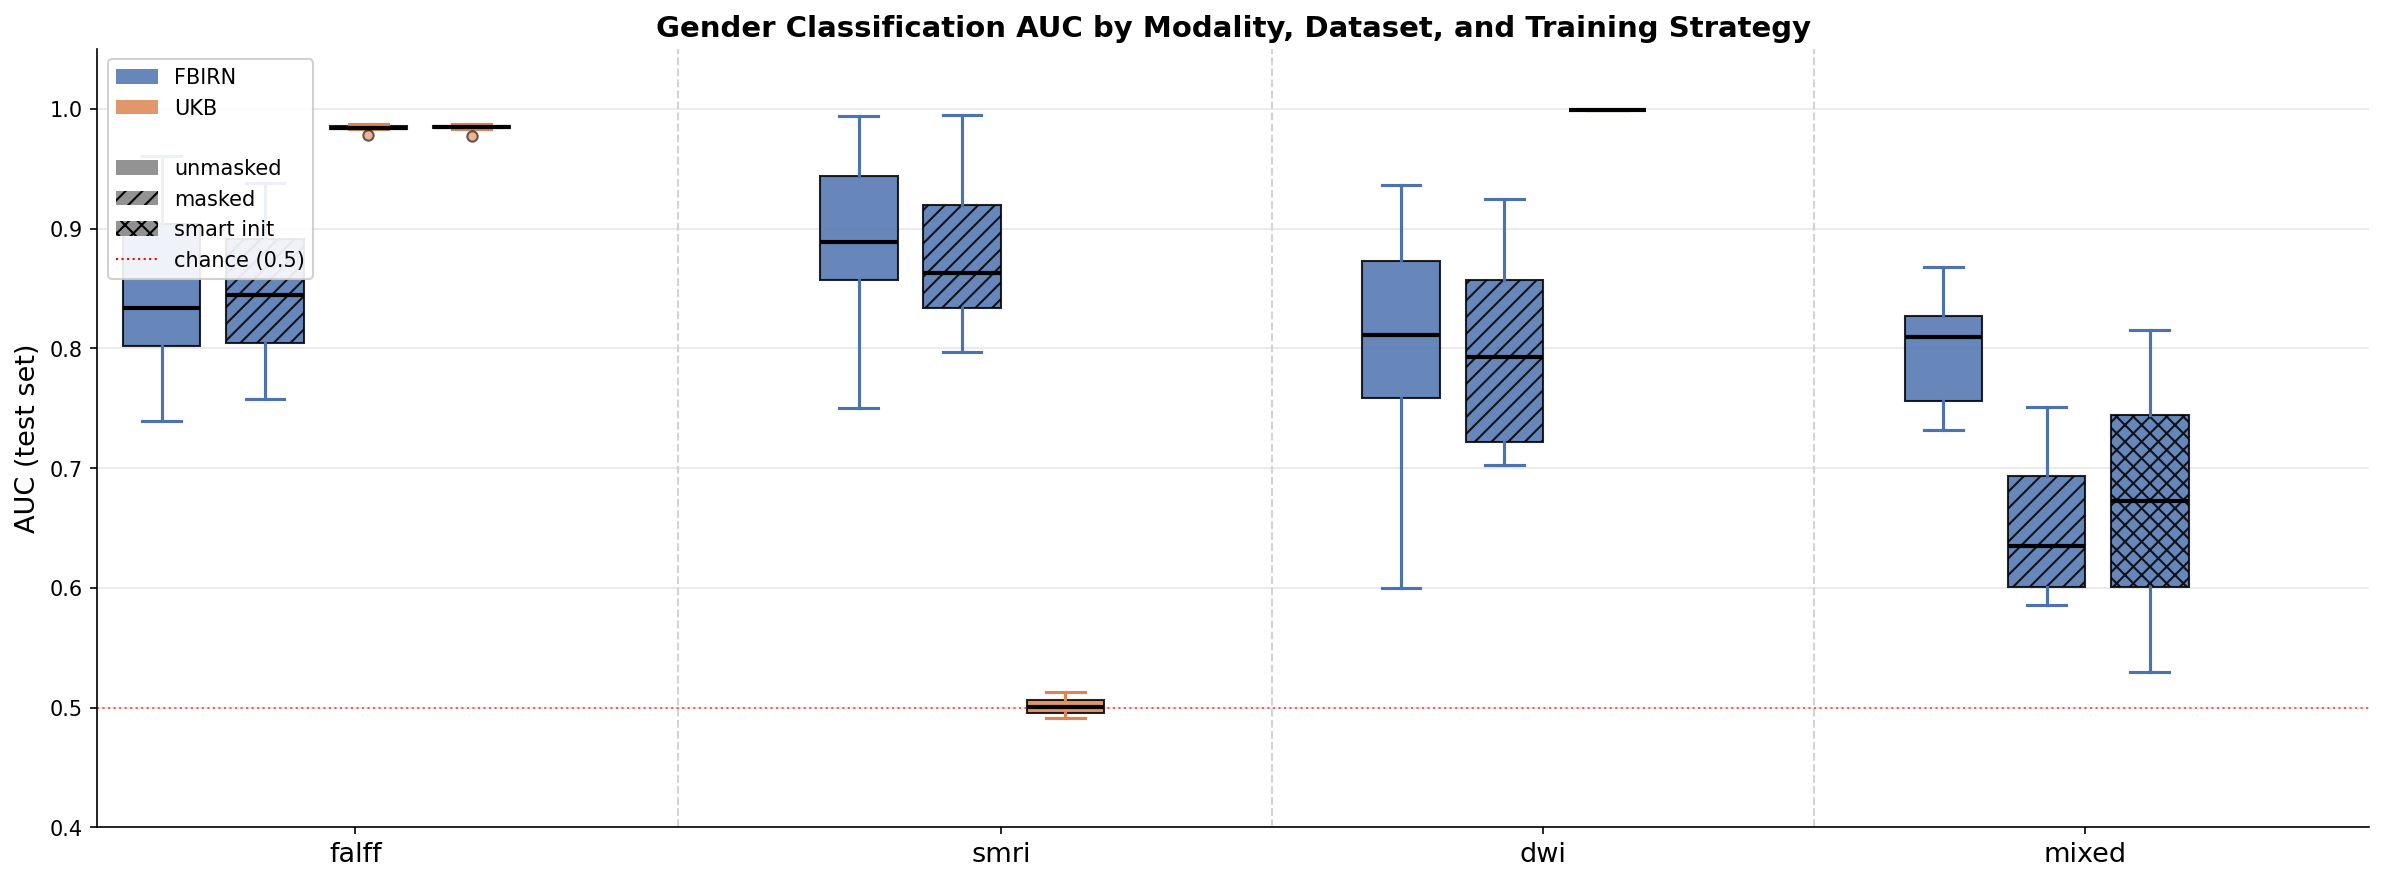
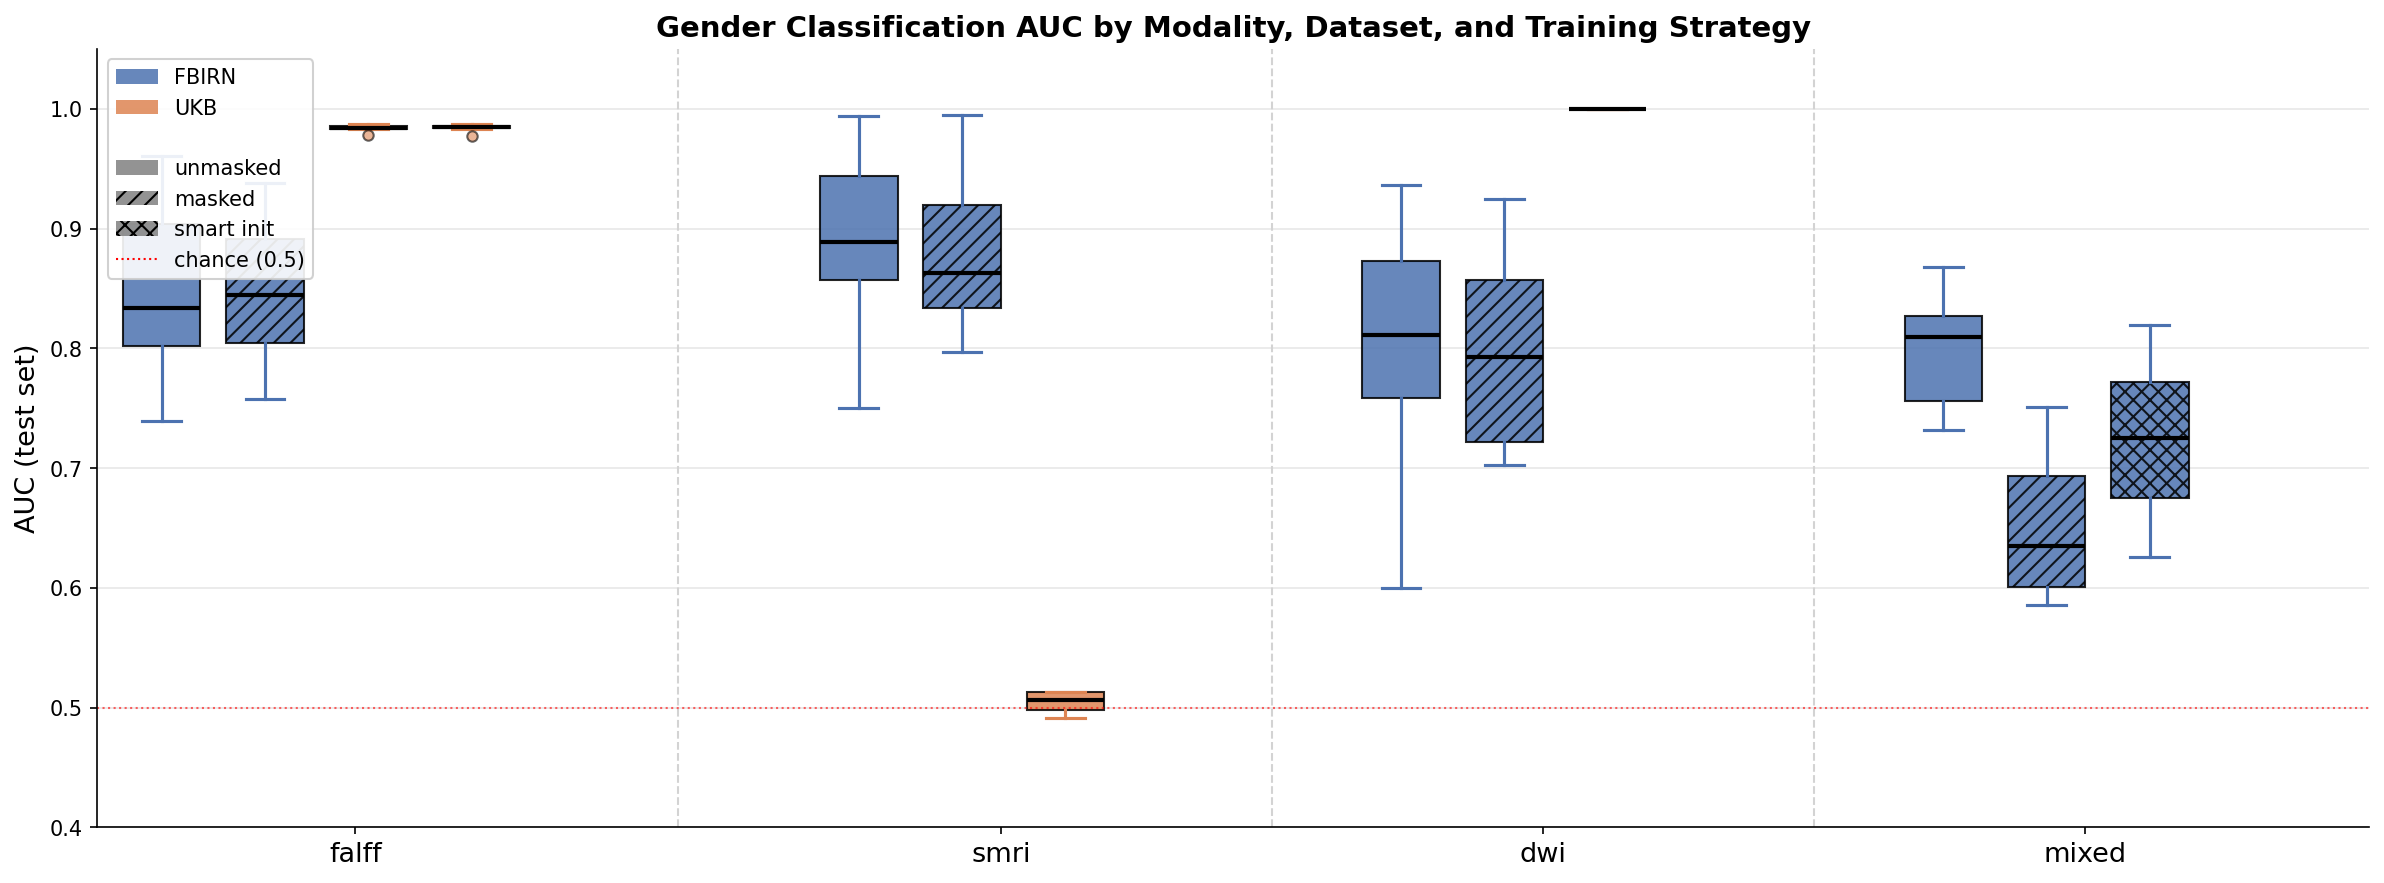
update populate script

Changed region(s): [[0.8691, 0.5504, 0.9312, 0.6727], [0.8691, 0.4281, 0.9312, 0.4892], [0.4346, 0.7644, 0.4656, 0.8256]]

diff --git a/prep/populate.py b/prep/populate.py
@@ -1,240 +1,185 @@
 import os
+import io
+import glob
+import torch
 import nibabel as nib
 import numpy as np
-from glob import glob
-from pymongo import MongoClient
-from concurrent.futures import ThreadPoolExecutor
-from dask import delayed, compute
 import bson
-import io
-import torch
 import pandas as pd
+from pymongo import MongoClient
 
-print("=== Starting FBIRN Data Pipeline ===")
+# config
+MONGO_HOST = "10.245.12.58"
+DB_NAME = "multimodalSubnetworks"
+BIN_COLLECTION = "ukb.bin"
+META_COLLECTION = "ukb.meta"
+FALFF_DIR = "/data/users2/jwardell1/multimodal-subnetworks/groupedData/ukb_falff/images/conformed"
+SMRI_DIR = "/data/users2/jwardell1/multimodal-subnetworks/groupedData/ukb_smri/images/conformed"
+DEMOGRAPHICS_CSV = "/data/users2/jwardell1/multimodal-subnetworks/prep/my_ukb_data.csv"
+CHUNK_SIZE_MB = 10
 
-# Configuration
-MONGOHOST = "10.245.12.58"
-MONGODB = "multimodalSubnetworks"
-BASE_PATH = "/data/users2/jwardell1/multimodal-subnetworks/groupedData"
-CHUNK_SIZE = 10  # MB
-DEMOGRAPHICS_FILE = "/data/users2/jwardell1/multimodal-subnetworks/prep/" + 'FBIRN_PANSS_Details.xlsx'
-
-# Initialize MongoDB Connection
-print(f"\nConnecting to MongoDB at {MONGOHOST}...")
-try:
-    client = MongoClient(f"{MONGOHOST}:27017", serverSelectionTimeoutMS=5000)
-    client.server_info()  # Test connection
-    db = client[MONGODB]
-    print("✓ MongoDB connection established")
-except Exception as e:
-    print(f"✗ MongoDB connection failed: {e}")
-    exit(1)
-
-# Load and Process Demographic Data
-print(f"\nLoading demographics from {DEMOGRAPHICS_FILE}...")
-try:
-    demographics_df = pd.read_excel(DEMOGRAPHICS_FILE)
-    print(f"✓ Loaded {len(demographics_df)} records")
-    
-    # Standardize gender values
-    demographics_df['gender_clean'] = (
-        demographics_df['Demographics_sDEMOG_GENDER']
-        .str.upper()
-        .str.strip()
-        .replace({'MALE': 'M', 'FEMALE': 'F'})
-    )
-    
-    # Encode gender numerically
-    gender_encoded = np.where(
-        demographics_df['gender_clean'] == 'M', 0,
-        np.where(
-            demographics_df['gender_clean'] == 'F', 1,
-            -1  # Invalid
-        )
-    ).astype(np.uint8)
-    
-    print("Gender Distribution:")
-    print(pd.Series(gender_encoded).value_counts()
-          .rename(index={0: 'Male', 1: 'Female', -1: 'Invalid'}))
-    
-    # Create ID mapping
-    gender_mapping = {}
-    for idx, row in demographics_df.iterrows():
-        original_id = str(row['SubjectID']).strip()
-        clean_id = original_id.lstrip('0')  # Remove leading zeros
-        
-        # Store gender data
-        gender_data = {
-            'original': row['Demographics_sDEMOG_GENDER'],
-            'encoded': int(gender_encoded[idx])  # Convert numpy to native int
-        }
-        
-        # Map both ID formats
-        gender_mapping[original_id] = gender_data
-        if clean_id != original_id:
-            gender_mapping[clean_id] = gender_data
-    
-    print(f"\n✓ Created gender mapping for {len(demographics_df)} subjects")
-    print("Sample mappings:", {k: gender_mapping[k] for k in list(gender_mapping.keys())[:3]})
-
-except Exception as e:
-    print(f"✗ Failed to process demographics: {e}")
-    exit(1)
-
-# Core Functions
-def qnormalize(img, qmin=0.02, qmax=0.98):
-    """Quantile normalization with clipping"""
-    qlow = np.quantile(img, qmin)
-    qhigh = np.quantile(img, qmax)
-    img = (img - qlow) / (qhigh - qlow)
-    return np.clip(img, 0, 1)
+def qnormalize(img, qmin=0.01, qmax=0.99):
+    img = (img - img.quantile(qmin)) / (img.quantile(qmax) - img.quantile(qmin))
+    return img
 
 def tensor2bin(tensor):
-    """Serialize tensor to binary"""
+    tensor_1d = (tensor * 255).clamp(0, 255).to(torch.uint8)
     buffer = io.BytesIO()
-    torch.save(tensor.to(torch.uint8), buffer)
+    torch.save(tensor_1d, buffer)
     return buffer.getvalue()
 
-def chunk_binobj(tensor_compressed, idx, kind, chunksize):
-    """Split binary data into chunks"""
+def chunk_binobj(tensor_binary, idx, subject_id, kind, chunksize):
     chunksize_bytes = chunksize * 1024 * 1024
-    num_chunks = len(tensor_compressed) // chunksize_bytes + 1
+    num_chunks = len(tensor_binary) // chunksize_bytes
+    if len(tensor_binary) % chunksize_bytes != 0:
+        num_chunks += 1
+    chunks = []
     for i in range(num_chunks):
         start = i * chunksize_bytes
-        end = min((i + 1) * chunksize_bytes, len(tensor_compressed))
-        yield {
+        end = min((i + 1) * chunksize_bytes, len(tensor_binary))
+        chunk = tensor_binary[start:end]
+        chunks.append({
             "id": idx,
+            "subject_id": subject_id,
             "chunk_id": i,
             "kind": kind,
-            "chunk": bson.Binary(tensor_compressed[start:end]),
-        }
+            "chunk": bson.Binary(chunk),
+        })
+    return chunks
 
-def process_subject(image_path, collection_name, id):
-    try:
-        print(f"\n--- Processing Subject {id} ---")
-        print(f"Image: {os.path.basename(image_path)}")
-        
-        # Load and process image
-        img = np.asarray(nib.load(image_path).dataobj)
-        img_norm = (qnormalize(img) * 255).astype(np.uint8)
-        img_bin = tensor2bin(torch.from_numpy(img_norm))
-        print(f"✓ Processed image ({len(img_bin)/1024:.1f} KB binary)")
-        
-        # Extract and match ID
-        filename = os.path.basename(image_path)
-        file_id = filename.split('_')[0]
-        clean_id = file_id.lstrip('0')
-        
-        print(f"Extracted IDs: File={file_id}, Cleaned={clean_id}")
-        
-        # Find matching gender data
-        gender_data = None
-        matching_id = None
-        for id_format in [file_id, clean_id]:
-            if id_format in gender_mapping:
-                gender_data = gender_mapping[id_format]
-                matching_id = id_format
-                print(f"✓ Matched using ID format: {id_format}")
-                break
-        
-        if not gender_data:
-            available_ids = list(gender_mapping.keys())[:5]
-            print(f'\n\n\n\n\t\t\tfile_id')
-            raise ValueError(f"No gender match. Tried: {file_id}, {clean_id}\nFirst 5 available: {available_ids}")
-            
-        
-        if gender_data['encoded'] not in {0, 1}:
-            raise ValueError(f"Invalid gender code: {gender_data}")
-        
-        print(f"Gender: {gender_data}")
-        
-        # Create metadata document
-        meta = {
-            "id": id,
-            "collection": collection_name,
-            "filename": filename,
-            "id_formats": {
-                "from_filename": file_id,
-                "cleaned": clean_id,
-                "matched": matching_id
-            },
-            "gender": gender_data,
-            "data_types": {
-                "image": "Normalized (0-255 uint8)",
-                "label": "Binary (0: Male, 1: Female, uint8)"
-            },
-            "processing_log": {
-                "normalization": "Quantile (0.02-0.98)",
-                "chunk_size_mb": CHUNK_SIZE,
-                "status": "processed"
-            }
-        }
+def load_nifti(filepath):
+    img = nib.load(filepath)
+    data = img.get_fdata(dtype=np.float32)
+    tensor = torch.from_numpy(data)
+    tensor = qnormalize(tensor)
+    return tensor
 
-        # MongoDB operations
-        col_bin = db[f"{collection_name}.bin"]
-        col_meta = db[f"{collection_name}.meta"]
-        
-        print("Inserting metadata...")
-        meta_result = col_meta.insert_one(meta)
-        print(f"✓ Metadata inserted: {meta_result.inserted_id}")
-        
-        # Insert binary data
-        gender_value = gender_data['encoded']  # From your existing code
-        gender_bin = tensor2bin(torch.tensor([gender_value], dtype=torch.long))  # Wrap in list to make 1D
-        
-        gender_chunks = list(chunk_binobj(gender_bin, id, "gender", CHUNK_SIZE))
-        img_chunks = list(chunk_binobj(img_bin, id, "image", CHUNK_SIZE))   
-        print(f"Inserting {len(img_chunks)} binary chunks...")
-        bin_result = col_bin.insert_many(img_chunks + gender_chunks)
-        print(f"✓ Inserted {len(bin_result.inserted_ids)} chunks")
-        
-        return True
-        
-    except Exception as e:
-        print(f"✗ Processing failed: {str(e)}")
-        return False
-
-
-
-# Main Execution
-if __name__ == "__main__":
-    print("\n=== Starting Main Processing ===")
+def load_demographics_for_subjects(csv_path, subject_ids):
+    """Load demographics only for specific subjects"""
+    print(f"loading demographics for {len(subject_ids)} subjects...")
     
-    # Process each collection
-    collections = [d for d in os.listdir(BASE_PATH) 
-                  if os.path.isdir(os.path.join(BASE_PATH, d))]
+    # Read only needed columns
+    df = pd.read_csv(csv_path, usecols=['eid', 'sex_f31_0_0'])
     
-    for collection in collections:
-        print(f"\nProcessing Collection: {collection}")
-        image_dir = os.path.join(BASE_PATH, collection, "images")
-        images = glob(os.path.join(image_dir, "*.nii"))
-        if not images:
-            images = glob(os.path.join(image_dir, "*.nii.gz"))
-        
-        print(f"Found {len(images)} images")
-        if not images:
-            print("✗ No images found! Check file pattern.")
+    # Convert to set for faster lookup
+    subject_set = set(subject_ids)
+    
+    demo_dict = {}
+    for _, row in df.iterrows():
+        sub_id = str(int(row['eid']))  # Convert to int first to remove .0, then to string
+        if sub_id not in subject_set:
             continue
             
-        # Process in parallel
-        with ThreadPoolExecutor() as executor:
-            futures = []
-            for idx, img_path in enumerate(images):
-                futures.append(executor.submit(
-                    process_subject, 
-                    img_path, 
-                    collection, 
-                    idx
-                ))
-            
-            # Track progress
-            results = [f.result() for f in futures]
-            success_rate = sum(results)/len(results)
-            print(f"\nCollection {collection} Results:")
-            print(f"Success: {sum(results)}/{len(results)} ({success_rate:.1%})")
+        gender_code = row['sex_f31_0_0']
+        if pd.isna(gender_code):
+            continue
+        gender_code = int(gender_code)
+        
+        if gender_code == 0:
+            gender = 'M'
+            gender_encoded = 0
+        elif gender_code == 1:
+            gender = 'F'
+            gender_encoded = 1
+        else:
+            continue
+        demo_dict[sub_id] = {'gender': gender, 'gender_encoded': gender_encoded}
     
-    print("\n=== Processing Complete ===")
-    print("Final checks:")
-    print(f"Metadata documents: {db['fbirn_falff.meta'].count_documents({})}")
-    print(f"Binary chunks: {db['fbirn_falff.bin'].count_documents({})}")
+    print(f"found demographics for {len(demo_dict)} subjects")
+    return demo_dict
 
+def main():
+    client = MongoClient(MONGO_HOST)
+    db = client[DB_NAME]
+    bin_coll = db[BIN_COLLECTION]
+    meta_coll = db[META_COLLECTION]
+
+    # Drop and recreate collections
+    print("dropping existing collections...")
+    bin_coll.drop()
+    meta_coll.drop()
+
+    # Get all subjects with fALFF
+    print("finding fALFF subjects...")
+    falff_files = glob.glob(os.path.join(FALFF_DIR, "*_fALFF.nii"))
+    falff_subjects = {os.path.basename(f).replace("_fALFF.nii", ""): f for f in falff_files}
+    print(f"found {len(falff_subjects)} fALFF subjects")
+
+    # Get all subjects with sMRI
+    print("finding sMRI subjects...")
+    smri_files = glob.glob(os.path.join(SMRI_DIR, "*_smri.nii.gz"))
+    smri_subjects = {os.path.basename(f).replace("_smri.nii.gz", ""): f for f in smri_files}
+    print(f"found {len(smri_subjects)} sMRI subjects")
+
+    # Get union of all subjects
+    all_subjects = sorted(set(falff_subjects.keys()) | set(smri_subjects.keys()))
+    print(f"total unique subjects: {len(all_subjects)}")
+
+    # Load demographics only for these subjects
+    demographics = load_demographics_for_subjects(DEMOGRAPHICS_CSV, all_subjects)
+
+    # Filter to subjects with demographics
+    subjects_with_demo = [s for s in all_subjects if s in demographics]
+    print(f"subjects with demographics: {len(subjects_with_demo)}")
+
+    # Process each subject
+    inserted = 0
+    skipped = 0
+
+    for idx, subject_id in enumerate(subjects_with_demo):
+        try:
+            modalities = []
+            bin_docs = []
+
+            # Process fALFF if available
+            if subject_id in falff_subjects:
+                tensor = load_nifti(falff_subjects[subject_id])
+                tensor_binary = tensor2bin(tensor)
+                chunks = chunk_binobj(tensor_binary, idx, subject_id, "falff", CHUNK_SIZE_MB)
+                bin_docs.extend(chunks)
+                modalities.append("falff")
+
+            # Process sMRI if available
+            if subject_id in smri_subjects:
+                tensor = load_nifti(smri_subjects[subject_id])
+                tensor_binary = tensor2bin(tensor)
+                chunks = chunk_binobj(tensor_binary, idx, subject_id, "smri", CHUNK_SIZE_MB)
+                bin_docs.extend(chunks)
+                modalities.append("smri")
+
+            # Insert binary data
+            if bin_docs:
+                bin_coll.insert_many(bin_docs)
+
+            # Create meta entry
+            demo = demographics[subject_id]
+            meta_doc = {
+                "id": idx,
+                "subject_id": subject_id,
+                "gender": demo["gender"],
+                "modalities": sorted(modalities),
+                "data_types": {
+                    "image": "Normalized (0-255 uint8)",
+                    "label": "Binary (0: Male, 1: Female, uint8)"
+                },
+                "normalization": "Quantile (0.01-0.99)",
+                "chunk_size_mb": CHUNK_SIZE_MB,
+                "lz4_compressed": False,
+                "gender_encoded": demo["gender_encoded"]
+            }
+            meta_coll.insert_one(meta_doc)
+
+            inserted += 1
+            if inserted % 100 == 0:
+                print(f"[{idx}] inserted {inserted} subjects...")
+
+        except Exception as e:
+            print(f"ERROR on {subject_id}: {e}")
+            skipped += 1
+
+    print(f"\ndone. inserted={inserted}, skipped={skipped}")
+    print(f"total bin documents: {bin_coll.count_documents({})}")
+    print(f"total meta documents: {meta_coll.count_documents({})}")
+
+if __name__ == "__main__":
+    main()